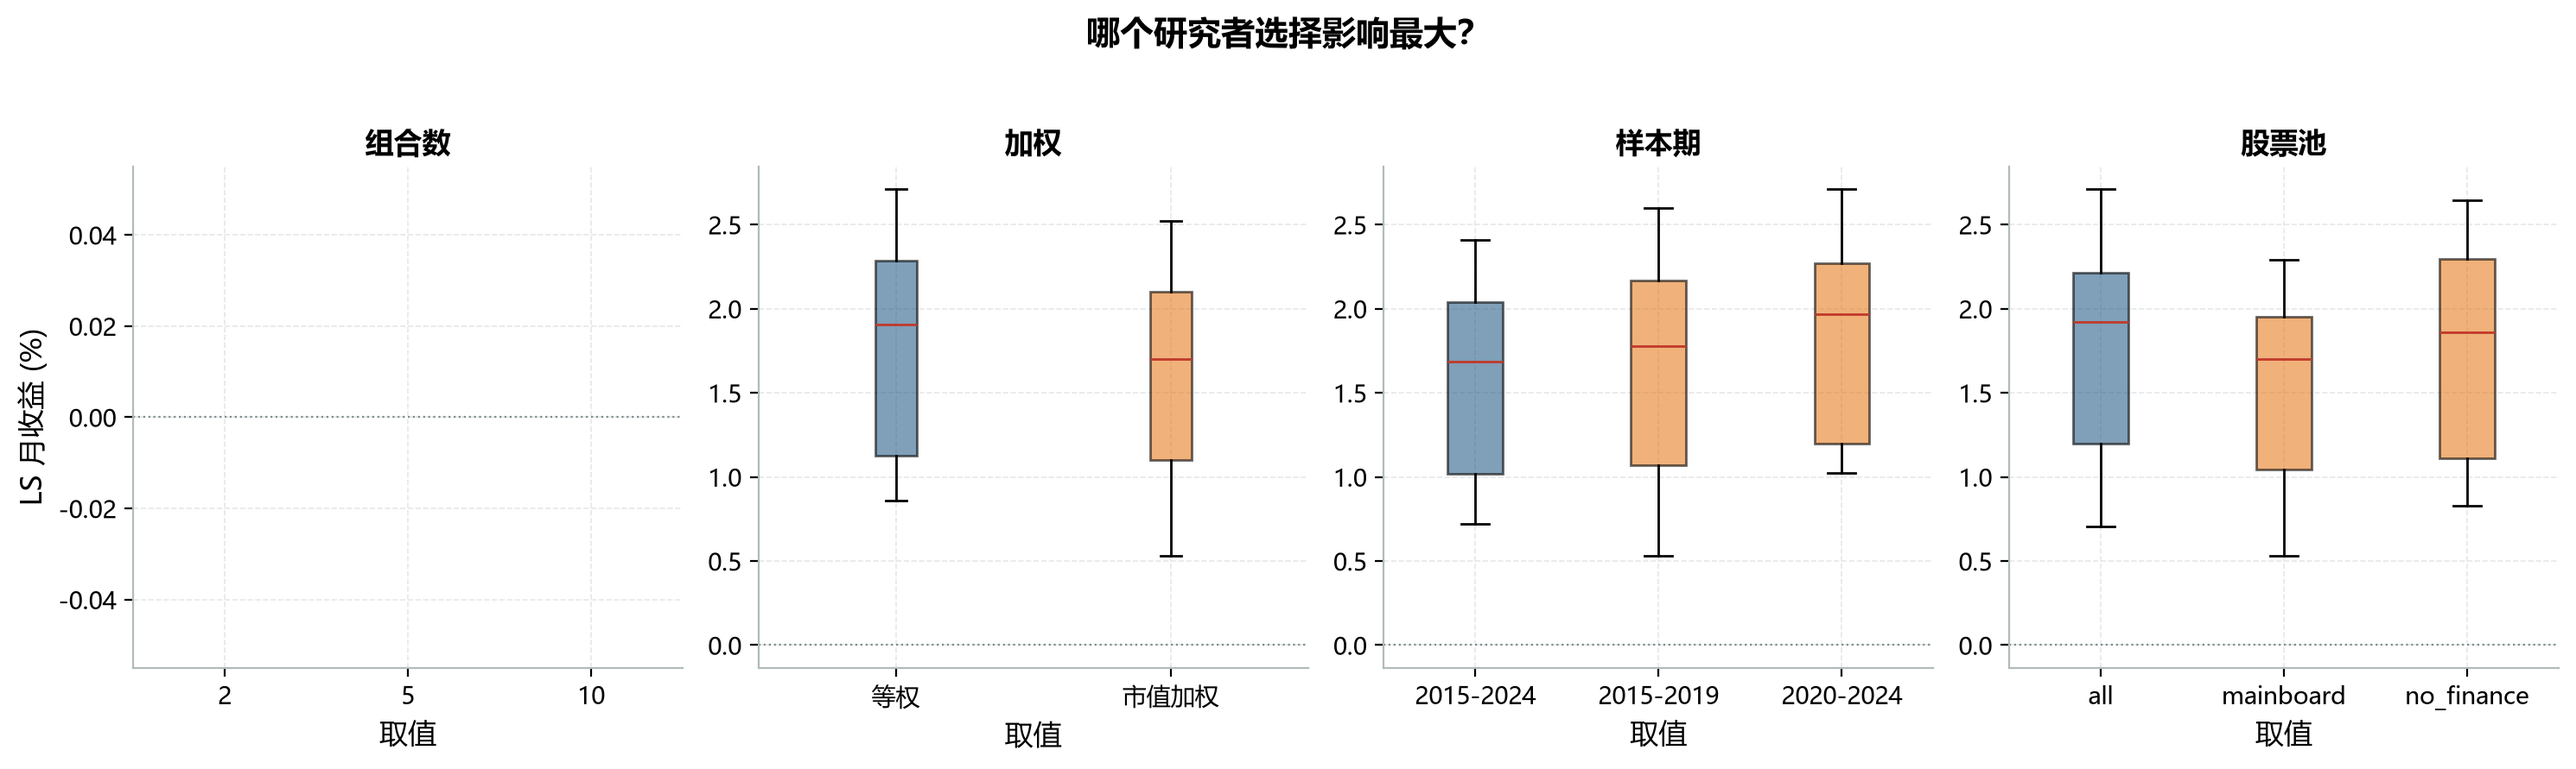
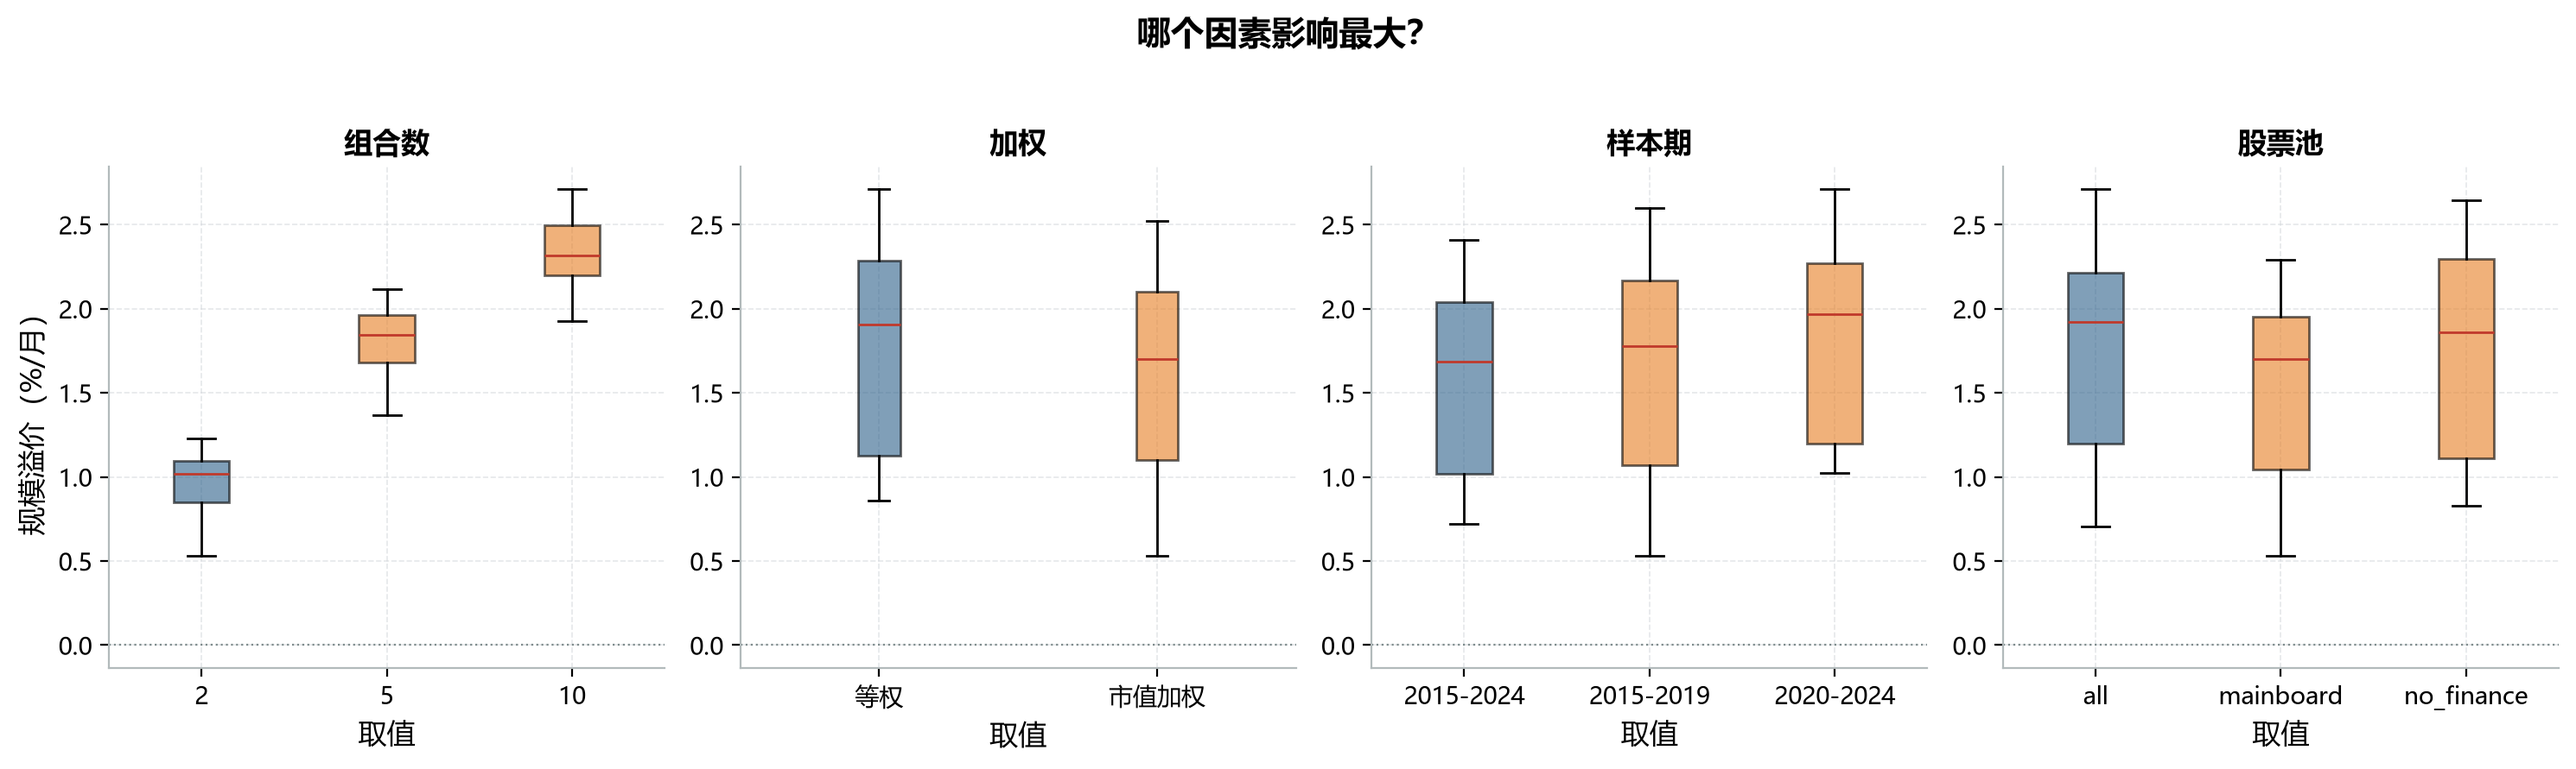
修复 p-hacking 复现代码的三处图表问题
- boxplot 组合数子图空：tick_labels 与 int 列类型不匹配，改为 int 序列
- 图3 最亮/最保守时间轴错开：限定在全样本期 2015-2024 内选择，两条曲线共轴
- "LS" 术语对读者不友好：图内标签统一改为"规模溢价（小盘−大盘，%/月）"

diff --git a/size_premium_p_hacking.py b/size_premium_p_hacking.py
@@ -192,27 +192,29 @@ def main():
         rows.append({
             "组合数": n_port, "加权": "等权" if w == "ew" else "市值加权",
             "样本期": f"{period[0]}-{period[1]}", "股票池": pool,
-            "LS月收益%": ls.mean() * 100,
+            "规模溢价%": ls.mean() * 100,
             "月数": len(ls),
         })
     specs = pd.DataFrame(rows)
 
-    print(f"\n全部 {len(specs)} 种规格的 LS 平均月收益：")
+    print(f"\n全部 {len(specs)} 种规格的规模溢价（小盘减大盘，%/月）：")
     print(specs.to_string(index=False))
-    print(f"\n统计：均值 {specs['LS月收益%'].mean():.2f}% | "
-          f"最小 {specs['LS月收益%'].min():.2f}% | "
-          f"最大 {specs['LS月收益%'].max():.2f}% | "
-          f"中位数 {specs['LS月收益%'].median():.2f}%")
-    print(f"正值规格占比: {(specs['LS月收益%'] > 0).mean() * 100:.0f}%")
+    print(f"\n统计：均值 {specs['规模溢价%'].mean():.2f}% | "
+          f"最小 {specs['规模溢价%'].min():.2f}% | "
+          f"最大 {specs['规模溢价%'].max():.2f}% | "
+          f"中位数 {specs['规模溢价%'].median():.2f}%")
+    print(f"正值规格占比: {(specs['规模溢价%'] > 0).mean() * 100:.0f}%")
 
     print("\n最保守（最低）：")
-    print(specs.loc[specs["LS月收益%"].idxmin()].to_string())
+    print(specs.loc[specs["规模溢价%"].idxmin()].to_string())
     print("\n最亮眼（最高）：")
-    print(specs.loc[specs["LS月收益%"].idxmax()].to_string())
+    print(specs.loc[specs["规模溢价%"].idxmax()].to_string())
 
-    # 找出最亮 / 最保守规格，供图 3 画累计净值
-    best = specs.loc[specs["LS月收益%"].idxmax()]
-    worst = specs.loc[specs["LS月收益%"].idxmin()]
+    # 找出最亮 / 最保守规格，供图 3 画累计净值。
+    # 必须限定在 全样本期 2015-2024 内选，否则两条曲线时间窗不同、x 轴错开不可比。
+    full = specs[specs["样本期"] == "2015-2024"]
+    best = full.loc[full["规模溢价%"].idxmax()]
+    worst = full.loc[full["规模溢价%"].idxmin()]
 
     def series_of(spec_row):
         return compute_ls(panel, int(spec_row["组合数"]),
@@ -223,18 +225,18 @@ def main():
     worst_series = series_of(worst).sort_index()
 
     print(">>> 3/3 绘图（mpl_style 统一风格）...")
-    ls_vals = specs.sort_values("LS月收益%")
+    ls_vals = specs.sort_values("规模溢价%")
 
     # 图1：全部规格 LS 收益条形图（按值排序）
     fig1, ax = plt.subplots(figsize=(11, 6))
-    colors = [mpl_style.ACCENT if v <= specs["LS月收益%"].median()
-              else mpl_style.RISE for v in ls_vals["LS月收益%"]]
-    ax.bar(range(len(ls_vals)), ls_vals["LS月收益%"], color=colors, width=0.9)
+    colors = [mpl_style.ACCENT if v <= specs["规模溢价%"].median()
+              else mpl_style.RISE for v in ls_vals["规模溢价%"]]
+    ax.bar(range(len(ls_vals)), ls_vals["规模溢价%"], color=colors, width=0.9)
     ax.axhline(0, color="#7F8C8D", lw=1)
-    ax.axhline(specs["LS月收益%"].median(), color="#7F8C8D", lw=1.2, ls="--",
-               label=f"中位数 {specs['LS月收益%'].median():.2f}%")
-    ax.set_xlabel("规格编号（按 LS 月收益升序）")
-    ax.set_ylabel("LS 平均月收益 (%)")
+    ax.axhline(specs["规模溢价%"].median(), color="#7F8C8D", lw=1.2, ls="--",
+               label=f"中位数 {specs['规模溢价%'].median():.2f}%")
+    ax.set_xlabel("规格编号（按规模溢价升序）")
+    ax.set_ylabel("规模溢价（小盘−大盘，%/月）")
     ax.set_title("54 种设计规格下的规模溢价（A 股 2015-2024）", fontsize=14, fontweight="bold")
     ax.legend(fontsize=10, loc="upper left")
     ax.set_xticks([])
@@ -245,14 +247,14 @@ def main():
 
     # 图2：4 个维度的边际敏感性（箱线图）
     dims = [
-        ("组合数", ["2", "5", "10"], specs),
+        ("组合数", [2, 5, 10], specs),
         ("加权", ["等权", "市值加权"], specs),
         ("样本期", ["2015-2024", "2015-2019", "2020-2024"], specs),
         ("股票池", ["all", "mainboard", "no_finance"], specs),
     ]
     fig2, axes = plt.subplots(1, 4, figsize=(15, 4.5))
     for ax, (dim, cats, _) in zip(axes, dims):
-        data = [specs.loc[specs[dim] == c, "LS月收益%"].values for c in cats]
+        data = [specs.loc[specs[dim] == c, "规模溢价%"].values for c in cats]
         bp = ax.boxplot(data, tick_labels=[str(c) for c in cats], patch_artist=True)
         for patch, c in zip(bp["boxes"], cats):
             patch.set_facecolor(mpl_style.COLOR_CYCLE[0] if c == cats[0]
@@ -261,9 +263,9 @@ def main():
         ax.axhline(0, color="#7F8C8D", lw=0.8, ls=":")
         ax.set_title(dim, fontsize=12)
         ax.set_xlabel("取值")
-        ax.set_ylabel("LS 月收益 (%)" if dim == "组合数" else "")
+        ax.set_ylabel("规模溢价（%/月）" if dim == "组合数" else "")
         mpl_style.hide_spines(ax)
-    fig2.suptitle("哪个研究者选择影响最大？", fontsize=14, fontweight="bold")
+    fig2.suptitle("哪个因素影响最大？", fontsize=14, fontweight="bold")
     fig2.tight_layout(rect=[0, 0, 1, 0.95])
     fig2.savefig("fig2_driver_sensitivity.png", dpi=200, bbox_inches="tight")
     print("    已保存 fig2_driver_sensitivity.png")
@@ -271,9 +273,9 @@ def main():
     # 图3：最亮 vs 最保守规格的累计净值
     fig3, ax = plt.subplots(figsize=(11, 5.5))
     label_best = (f"最亮: {best['组合数']}组/等权/{best['样本期']}/{best['股票池']} "
-                  f"({best['LS月收益%']:.2f}%/月)")
+                  f"({best['规模溢价%']:.2f}%/月)")
     label_worst = (f"最保守: {worst['组合数']}组/市值加权/{worst['样本期']}/{worst['股票池']} "
-                   f"({worst['LS月收益%']:.2f}%/月)")
+                   f"({worst['规模溢价%']:.2f}%/月)")
     ax.plot(best_series.index.astype(str), (best_series + 1).cumprod(),
             lw=1.8, color=mpl_style.RISE, label=label_best)
     ax.plot(worst_series.index.astype(str), (worst_series + 1).cumprod(),
